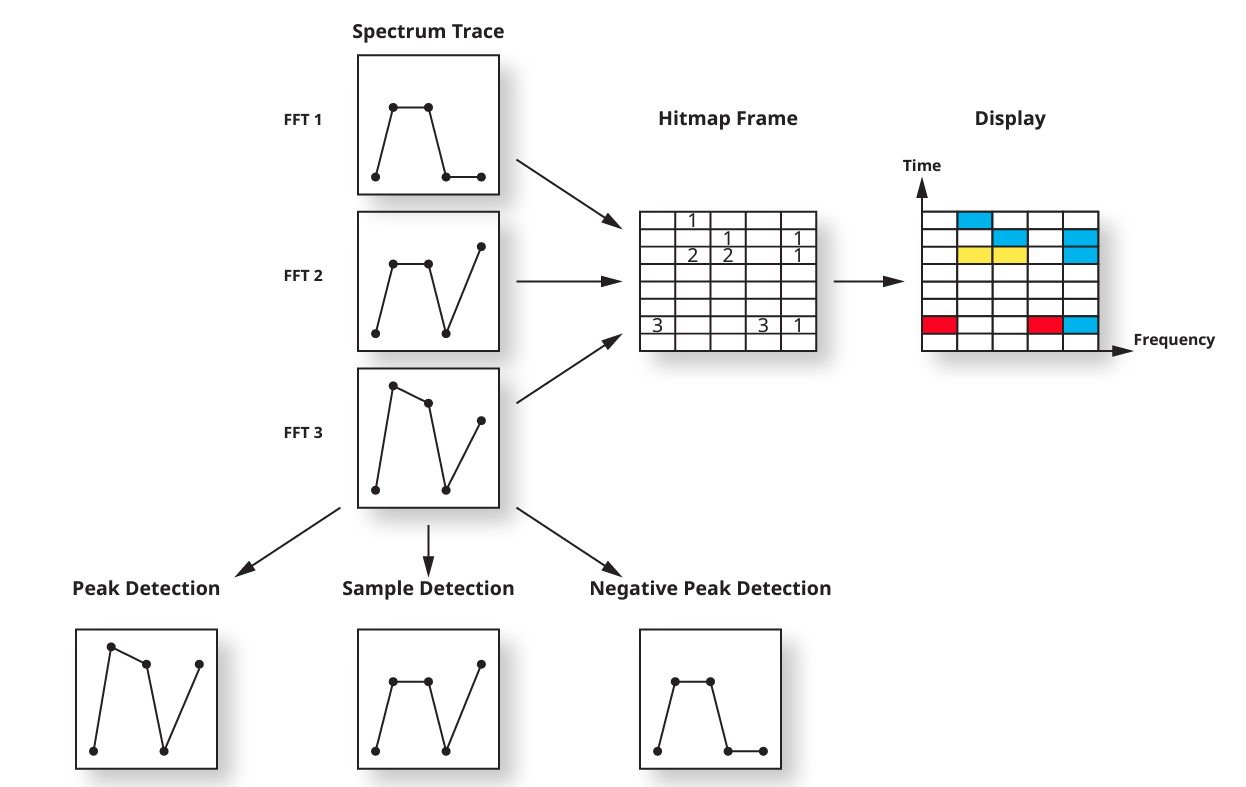
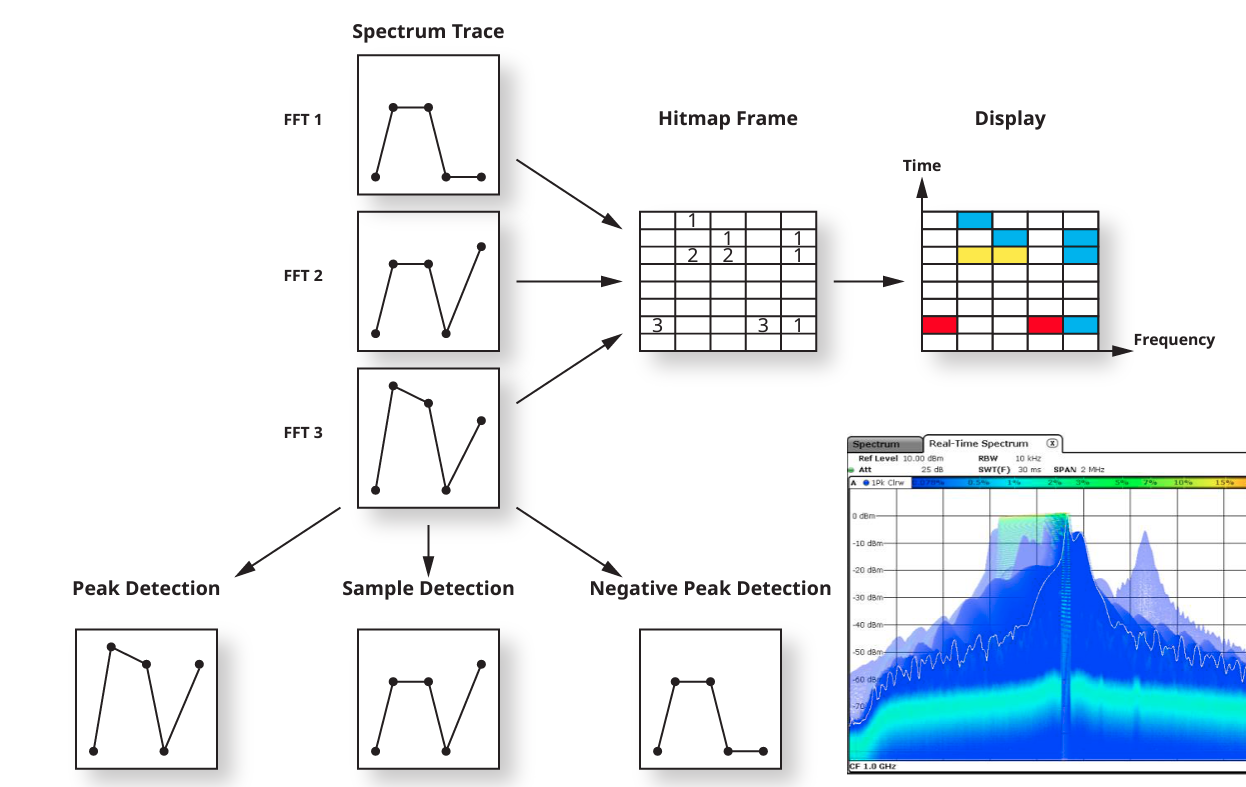
first version

Changed region(s): [[0.6709, 0.5489, 1.0, 1.0]]

diff --git a/frams.tex b/frams.tex
@@ -91,7 +91,10 @@
 \end{frame}
 %%%%%%%%%%%%%%%%%%%%%%%%%%%%%%%%%%%%%%%%%%%
 \begin{frame}{Real-time Spectrum Analyzer}{Implementation}
-
+	\begin{figure}
+		\centering
+		\includegraphics[scale=0.3]{graphics/rtsa_fig5.png}
+	\end{figure}
 \end{frame}
 
 
